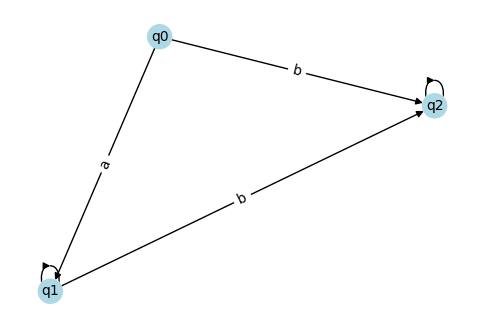
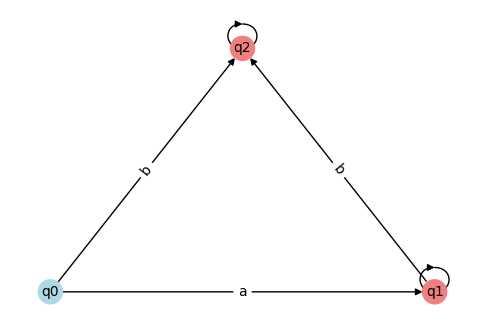
aaaa

diff --git a/man.py b/man.py
@@ -23,7 +23,6 @@ class Automaton:
         self.reset()
         for symbol in input_str:
             if symbol in self.states[self.current_state]:
-
                 next_state, action = self.states[self.current_state][symbol]
                 if action == 'pop_push':
                     self.stack.pop()
@@ -57,17 +56,14 @@ class PalindromeRecognizerApp:
         self.state_label = tk.Label(root, text='Current State: q0')
         self.state_label.pack()
 
-        
         self.speed_label = tk.Label(root, text='Speed:', font=("Helvetica", 14, "bold"))
         self.speed_label.pack()
 
-    
         self.speed_scale = tk.Scale(root, from_=0.1, to=2.0, resolution=0.1, orient="horizontal", length=300)
         self.speed_scale.set(1.0)
         self.speed_scale.pack()
 
         label_style = ("Helvetica", 14, "bold")
-
         self.label.config(fg="Purple", font=label_style)
         self.result_label.config(fg="Purple", font=label_style)
         self.state_label.config(fg="Purple", font=label_style)
@@ -84,8 +80,12 @@ class PalindromeRecognizerApp:
             ('q2', 'q2', {'label': 'b'})
         ])
 
-        pos = nx.spring_layout(self.graph, k=0.5)
-        edge_labels = {(u, v): d['label'] for u, v, d in self.graph.edges(data=True)}
+        self.node_positions = {
+            'q0': (100, 100),
+            'q1': (300, 100),
+            'q2': (200, 300),
+        }
+
         self.node_colors = ['lightblue' for _ in range(len(self.graph.nodes))]
 
         self.canvas = tk.Canvas(root, width=800, height=600)
@@ -100,13 +100,17 @@ class PalindromeRecognizerApp:
 
         speed = self.speed_scale.get()
 
+        prev = None
         for i, (state, _) in enumerate(automaton.process_input(input_str)):
             self.node_colors[list(self.graph.nodes).index(state)] = 'lightcoral'
             self.state_label.config(text=f'Current State: {state} -> Next Symbol: {input_str[i]}')
             self.root.update()
+            self.node_colors[list(self.graph.nodes).index(state)] = 'red'
             time.sleep(0.5 / speed)
-            self.node_colors[list(self.graph.nodes).index(state)] = 'lightblue'
+            if prev is not None:
+                self.node_colors[prev] = 'lightcoral'
             self.update_graph()
+            prev = list(self.graph.nodes).index(state)
 
         if automaton.is_valid():
             self.result_label.config(text='Result: Valid Palindrome')
@@ -114,14 +118,13 @@ class PalindromeRecognizerApp:
             self.result_label.config(text='Result: Not a valid palindrome')
 
     def update_graph(self):
-        pos = nx.spring_layout(self.graph, k=0.5)
         edge_labels = {(u, v): d['label'] for u, v, d in self.graph.edges(data=True)}
-        nx.draw(self.graph, pos, with_labels=True, node_color=self.node_colors, node_size=300, font_size=10)
-        nx.draw_networkx_edge_labels(self.graph, pos, edge_labels=edge_labels)
 
         fig = plt.figure(figsize=(6, 4))
         ax = fig.add_subplot(111)
         ax.axis('off')
+        pos = self.node_positions
+
         nx.draw(self.graph, pos, with_labels=True, node_color=self.node_colors, node_size=300, font_size=10)
         nx.draw_networkx_edge_labels(self.graph, pos, edge_labels=edge_labels)
         plt.savefig('automaton.png', bbox_inches='tight', transparent=True)
